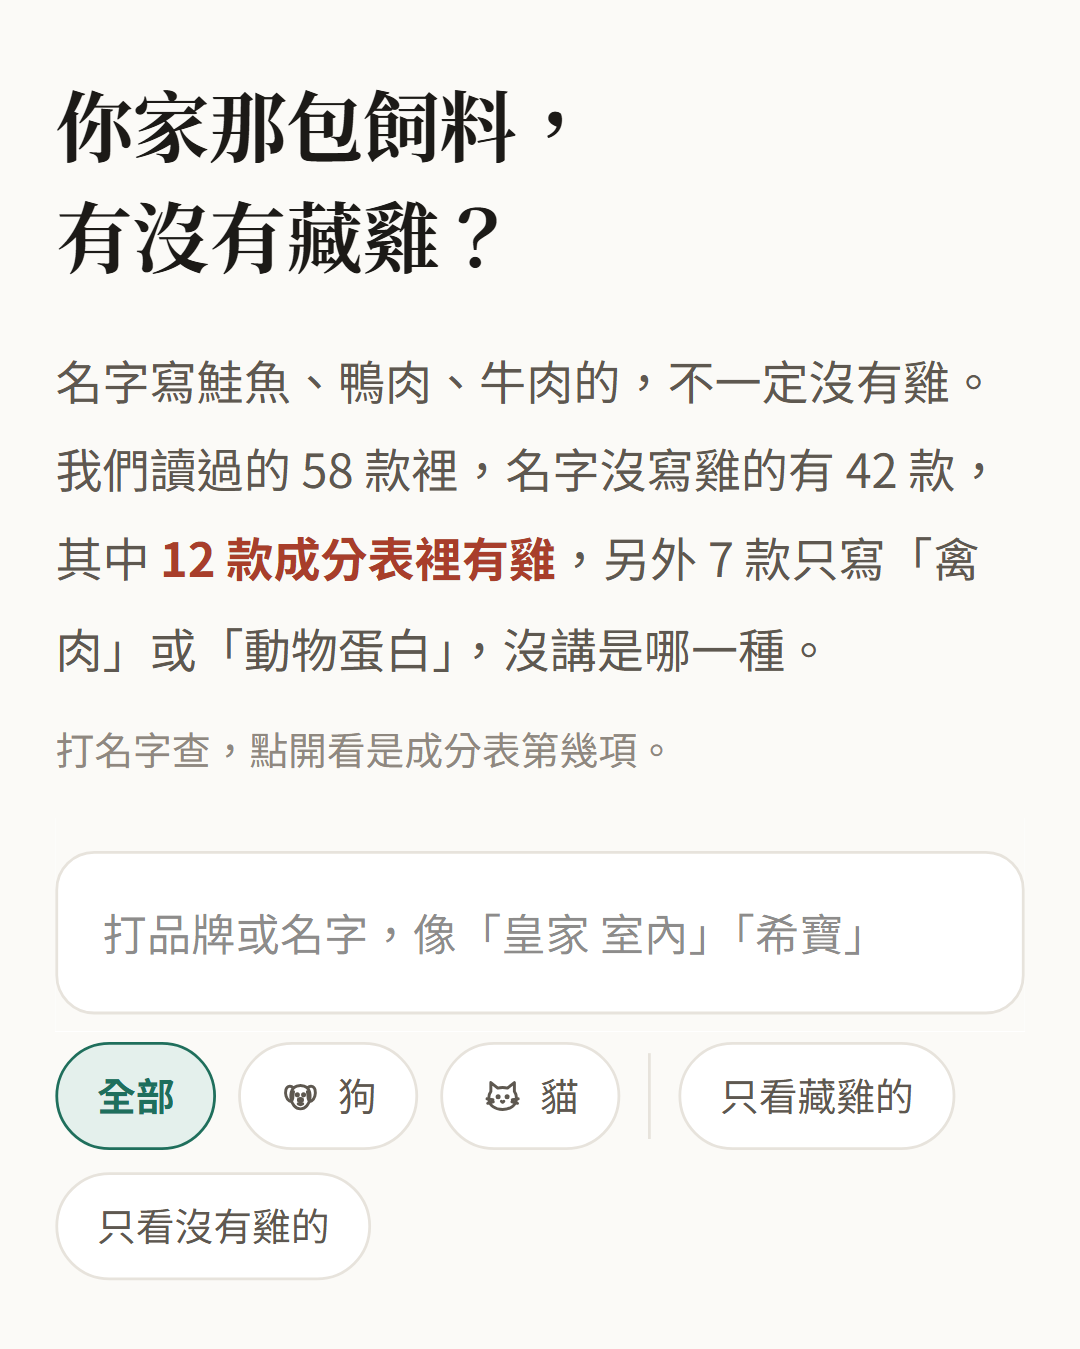
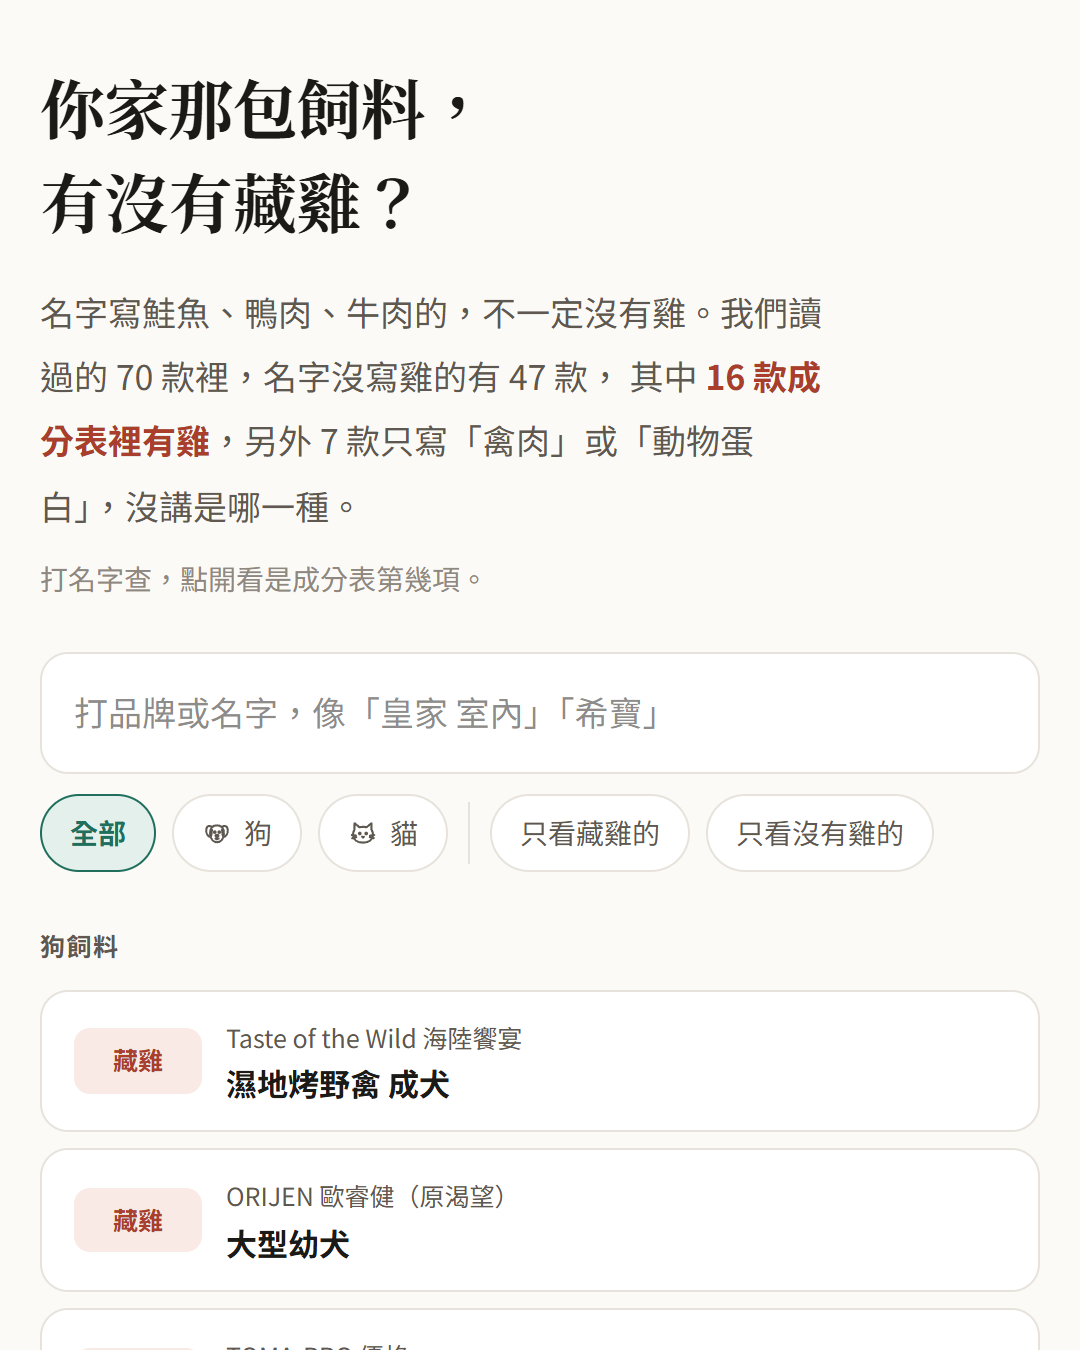
開 IG／Threads 帳號：名稱定案、開帳號步驟、第 1 篇換新數字、加狗罐頭篇
名稱（Tim 問官方還是個人）：外殼用品牌，說話像一個人
  @名稱 zone27.com.tw，不收就 zone27tw
  不用 zone27.tw：查過這個網址不存在、不是我們的，讀者照著打會打不開
  顯示名稱「貓狗飼料翻背面的人」，不捏造人設（有分潤還裝素人是公平會最危險的組合）

手冊第 1 節加開帳號十個步驟、新帳號頭兩天不要做的事
第 8 節排好開頭四篇：9/24 藏雞總覽 → 9/29 狗罐頭 → 10/1、10/6 貓砂
第 9 節：Analytics 9/13 就開了，舊的「還沒裝流量統計」改掉

第 1 篇：58/42/12 → 70/47/16，兩張圖重畫（第 2 張截線上最新的查藏雞頁）
  留言範本的編號重對：紐頓 T24 ck-05 → cf-16、莫比 ck-07 → cf-19，舊的已經不存在
第 2 篇（檔名 04）：名字寫鹿肉、鱉肉的狗罐頭，文稿＋兩張圖

diff --git a/marketing/threads/img/post-04-1.html b/marketing/threads/img/post-04-1.html
@@ -1,0 +1,53 @@
+<!doctype html>
+<html lang="zh-Hant"><head><meta charset="utf-8">
+<style>
+  * { box-sizing: border-box; }
+  body { margin: 0; width: 1080px; height: 1350px; background: #FBFAF7; color: #1C1A17;
+         font-family: "Microsoft JhengHei", "Noto Sans TC", "PingFang TC", sans-serif; }
+  .wrap { padding: 76px 84px 0; }
+  .kick { font-size: 34px; font-weight: 700; color: #6B655C; letter-spacing: 1px; }
+  h1 { font-size: 78px; line-height: 1.22; margin: 14px 0 0; font-weight: 900; }
+  h1 b { color: #A4432F; }
+  .stat { margin-top: 22px; font-size: 36px; line-height: 1.55; color: #3B3833; }
+  .stat b { color: #A4432F; }
+  .list { margin-top: 30px; border-top: 4px solid #1C1A17; }
+  .item { padding: 18px 0 16px; border-bottom: 2px solid #E4E0D8; }
+  .brand { font-size: 27px; color: #6B655C; font-weight: 700; }
+  .name { font-size: 38px; font-weight: 900; margin-top: 2px; }
+  .row { font-size: 31px; margin-top: 8px; line-height: 1.5; color: #3B3833; }
+  .row .k { display: inline-block; width: 150px; color: #8A8378; font-weight: 700; }
+  .row .chk { color: #A4432F; font-weight: 900; }
+  .row .ok { color: #2F6B55; font-weight: 900; }
+  .foot { position: absolute; left: 84px; right: 84px; bottom: 60px; display: flex; justify-content: space-between;
+          font-size: 26px; color: #8A8378; }
+</style></head>
+<body>
+  <div class="wrap">
+    <div class="kick">要幫狗換肉、做排除飲食的先看</div>
+    <h1>名字寫鹿肉、鱉肉<br>第一二項是<b>雞</b></h1>
+    <div class="stat">台灣買得到的 12 款狗主食罐，<br>名字沒寫雞的 5 款裡，<b>4 款有雞</b></div>
+    <div class="list">
+      <div class="item">
+        <div class="brand">汪喵星球</div>
+        <div class="name">犬用 Fantastic 95% 鮮肉主食罐　鹿肉</div>
+        <div class="row"><span class="k">成分表</span>第 1 項鹿肉，第 2 到 5 項全是 <span class="chk">雞</span></div>
+      </div>
+      <div class="item">
+        <div class="brand">怪獸部落</div>
+        <div class="name">犬2肉主食罐　鱉肉鱉蛋</div>
+        <div class="row"><span class="k">成分表</span>第 1 項就是 <span class="chk">雞肉</span></div>
+      </div>
+      <div class="item">
+        <div class="brand">汪喵星球</div>
+        <div class="name">熟齡犬銀養主食罐　燉羊肉</div>
+        <div class="row"><span class="k">成分表</span>第 1 項 <span class="chk">雞肉及雞肝</span>，羊肉排第 2</div>
+      </div>
+      <div class="item">
+        <div class="brand">怪獸部落</div>
+        <div class="name">犬1肉主食罐　鴨肉</div>
+        <div class="row"><span class="k">成分表</span>肉只有鴨肉、鴨肝，<span class="ok">找不到雞</span></div>
+      </div>
+    </div>
+  </div>
+  <div class="foot"><span>照台灣通路的中文標示，2026 年 9 月</span><span>zone27.com.tw</span></div>
+</body></html>

diff --git a/marketing/threads/img/post-01-1.html b/marketing/threads/img/post-01-1.html
@@ -24,7 +24,7 @@
   <div class="wrap">
     <div class="kick">對雞過敏的毛孩先看</div>
     <h1>名字沒寫雞<br>成分表裡<b>有雞</b></h1>
-    <div class="stat">台灣買得到的 58 款飼料、罐頭，<br>名字沒寫雞的 42 款裡，<b>12 款有雞</b></div>
+    <div class="stat">台灣買得到的 70 款飼料、罐頭，<br>名字沒寫雞的 47 款裡，<b>16 款有雞</b></div>
     <div class="list">
       <div class="item">
         <div class="brand">Sheba 希寶</div>

diff --git a/marketing/THREADS-PLAYBOOK.md b/marketing/THREADS-PLAYBOOK.md
@@ -12,22 +12,71 @@
   2. 跟 Tim 本人、恆美分開，被酸也不會燒到個人
   3. 個人帳號從沒發過文，本來就沒有累積可以沿用
 - **就開一個帳號**（2026-09-18 Tim：「我只想開一個 IG 跟 Threads 帳號，不要開那麼多個，手機綁定我哪生得出來」）
-  - 帳號名稱 `zone27.tw`，這是總帳號，網站做到哪個類目就發哪個類目
+  - 帳號名稱見下面「名稱」，這是總帳號，網站做到哪個類目就發哪個類目
   - 原本寫「照讀者分開開」是我想太多：多開帳號要多支手機門號，而且每個帳號都要從零養，以他一個人的時間根本顧不完。一個帳號養到有人看，比三個空帳號值錢
   - 換帳號要付的代價：追蹤的人是為了貓來的，突然看到除濕機會滑掉，互動會掉。**解法是每一篇都長得像同一個東西**：固定的「名字不算數，X 才算數」格式 —— 飼料看成分表，保養品看全成分，家電看規格表。讀者追的是「這個帳號會幫我拆穿標示」，不是追貓
   - 類目差很遠的時候（例如嬰幼兒、3C），在貼文第一行就講清楚是給誰看的，讓不相關的人知道可以滑過去，不要硬留
-- 開法：每個 Threads 帳號要用一個 Instagram 帳號開。先開新的 Instagram，再用它登入 Threads
-- 帳號名稱：`zone27.tw`（被用走就 `zone27.tw.official` 或 `zone27tw`）
-- 顯示名稱：`ZONE 27｜標示拆給你看`
-- 自介：
+- 開法：每個 Threads 帳號要用一個 Instagram 帳號開。先開新的 Instagram，再用它登入 Threads。步驟見下面
+
+### 名稱：外殼用品牌，說話像一個人（2026-09-23 定）
+
+Tim 問要取官方的還是個人一點的。結論是兩個都不要，取中間：
+
+- **帳號名稱（@ 後面那串）用品牌**：第一選擇 `zone27.com.tw`，IG 不收的話用 `zone27tw`
+  1. @ 名稱只能用英文數字，本來就講不出中文意思，最有用的就是跟網址一模一樣
+  2. Threads 每一篇貼文最上面都掛著 @ 名稱。主文不放連結，但每一篇都等於把網址秀一次
+  3. **不要用 `zone27.tw`**：2026-09-23 查過，這個網址不存在、不是我們的。讀者照著打會打不開，以後也可能被別人註冊走
+  4. 不要加 `.official`：官方味就是這個平台最容易被滑掉的味道
+- **顯示名稱（中文那行）像一個人**：`貓狗飼料翻背面的人`
+  1. ZONE 27 還沒有人認識，拿品牌名當顯示名稱，只有廣告的缺點，沒有品牌的好處
+  2. 「翻背面」是每個飼主都做過的動作，一看就知道這個帳號在做什麼；「貓狗飼料」是 IG 搜尋會比對到的字
+  3. 名稱改了有次數限制（14 天內 2 次），@ 名稱改掉後舊的會鎖 14 天。一次取對
+- **不要捏造人設**（養三隻貓的某某媽媽、獸醫、營養師）
+  1. 有分潤還裝素人，是公平會薦證廣告最危險的組合
+  2. 有人問「你家貓吃什麼」會答不出來
+  3. 帳號要能賣、要能交給別人顧；綁一個假的人，就賣不掉也交不出去
+  4. 「翻成分表的人」這個角色是真的，網站每天在做這件事，誰來顧都演得下去，也不用露臉
+- 語氣：講研究用「我們」（跟網站一致，「我們讀了 12 款」），回留言可以用「我」（「我幫你看」）
+- 自介（IG 跟 Threads 共用，150 字內）：
   ```
   名字不算數，成分表才算數
-  現在在讀：貓狗飼料、貓罐頭
-  名字寫鮭魚，裡面有沒有雞？查給你看
+  貓狗飼料、罐頭、貓砂，一款一款翻到背面讀
+  名字寫鮭魚，裡面有沒有雞？查給你看 👇
   ```
-- 連結：`zone27.com.tw/check`
-- 大頭貼：`marketing/threads/img/avatar.png`
-- **暖身**：第一篇之前的兩三天，去有人在問「過敏吃什麼」「換飼料」的貼文底下，留真的有用的回答（不貼連結）。讓 Threads 知道這個帳號在講什麼
+- 連結：IG 放 `zone27.com.tw/check`。Threads 最多可以放 5 個，第一個一樣放 /check，第二個放首頁
+- 大頭貼：`marketing/threads/img/avatar.png`（綠底 ZONE 27，跟網站同一個顏色）
+
+### 開帳號（2026-09-23 寫給 Tim）
+
+先準備：
+- 現在那支手機就好
+- **專用 Gmail**（建議）：網站公開的聯絡信箱拿來當登入帳號，等於登入帳號是公開的，被釣魚、被亂寄重設密碼信的機會大；以後帳號要轉手，也要先把信箱換掉
+- 驗證器 App（Google Authenticator）
+- 大頭貼、第 1 篇的三張圖，先用 LINE 傳給自己
+- 上面的名稱、自介、連結，開一個記事本複製好
+
+步驟：
+1. IG：點最上面自己的帳號名稱 → 新增帳號 → 建立新帳號
+2. @ 名稱打 `zone27.com.tw`，不收就 `zone27tw`
+3. 用電子郵件註冊，填專用 Gmail。生日填真的，被誤停權申訴時要對得上
+4. 如果問要不要連 Facebook、加進同一個帳號管理中心、同步通訊錄：**全部選不要**。連了會被推薦給你私人跟恆美那邊認識的人
+5. 填顯示名稱、自介、連結，換大頭貼
+6. 轉成專業帳號 → 創作者。每一篇的數據才看得到，帳號會變公開（本來就要公開）
+7. 開雙重驗證，選驗證器 App，備用碼抄在紙上收好
+8. 下載 Threads。登入時**確認選的是新開的那個 IG**，不是你私人的。選錯就會用私人帳號開出一個 Threads，這一步最容易出事
+9. 匯入 IG 的個人檔案 → 設公開 → 加連結；看得到「主題標籤」的欄位就加：貓、狗、毛孩、寵物、飼料
+10. 私人帳號、恆美的帳號不要去追它、不要按讚分享，兩邊分開
+
+IG 跟 Threads 的角色：**Threads 是主場**。IG 是開 Threads 的鑰匙，一週一次把同一組圖發成輪播就好，不要經營成第二個戰場，一個人顧不來。
+
+### 新帳號頭兩天不要做的事
+
+- 一口氣追幾十個人、一小時留十幾則留言、每則都貼連結、複製貼上同一句話。新帳號這樣最容易被當成機器人
+- 買粉、進互粉群、用自動發文或自動留言的工具
+- 在留言裡回答生病、症狀怎麼辦。請他問獸醫，我們只講成分表
+- Meta 2025 到 2026 有好幾波 AI 誤停權，沒做錯事也會中。雙重驗證、真的生日、專用信箱，就是被誤停時拿回帳號的憑證
+
+**暖身**：開好之後、第一篇之前，去有人在問「過敏吃什麼」「換飼料」的貼文底下，留幾則真的有用的回答（不貼連結），一天五則以內。讓 Threads 知道這個帳號在講什麼
 
 ## 2. 什麼時候發
 
@@ -110,9 +159,19 @@
 
 資料都在網站上，寫之前先去看最新的數字：
 
-1. 藏雞總覽：名字沒寫雞的 42 款，12 款有雞（第 1 篇，2026-09-13 加讀了皇家、希寶、優格這些常見的 16 款）
-1-2. 貓砂沖馬桶：14 款只有 7 款適量可沖，而那 7 款包裝全寫可沖（第 2 篇，稿在 threads/2026-09-post-02.md）
-1-3. 貓砂一個月多少錢：最貴的礦砂比最便宜的多 $477，一年五千多（第 3 篇，稿在 threads/2026-09-post-03.md）
+**開頭四篇的順序（2026-09-23 排）：** 第 1 篇吸進來的是在意過敏的人，第 2 篇接著講藏雞最順，貓砂排到後面。
+
+| 順序 | 時間 | 題目 | 稿 |
+|---|---|---|---|
+| 1 | 9/24（四）晚上 8 點 | 藏雞總覽：70 款，名字沒寫雞的 47 款，16 款有雞 | threads/2026-09-post-01.md |
+| 2 | 9/29（二）晚上 8 點 | 藏雞系列 #2 狗罐頭：名字寫鹿肉、鱉肉的，第一二項是雞 | threads/2026-09-post-04.md |
+| 3 | 10/1（四）晚上 8 點 | 貓砂沖馬桶：14 款只有 7 款適量可沖 | threads/2026-09-post-02.md |
+| 4 | 10/6（二）晚上 8 點 | 貓砂一個月多少錢 | threads/2026-09-post-03.md |
+
+中間的空檔不用發文，去回自己貼文的留言、去別人的貼文底下回答問題。
+
+之後的題目：
+
 2. 藏雞系列：貓罐頭篇（很多是雞湯煮的）
 3. 大包不一定划算：巔峰羊肉 185g 十二件組，一罐比單買還貴
 4. 副食罐可以當主食嗎：鈣差幾十倍
@@ -126,7 +185,7 @@
 
 - 蝦皮分潤報表：看每個 Sub id（CW02、CF09…）的點擊和訂單
 - Threads 洞察報告：看瀏覽、回覆、分享
-- 網站還沒有裝流量統計。之後 Tim 在 Vercel 後台打開 Analytics，就能看到有多少人從 Threads 進來
+- 網站流量：Vercel 後台的 Analytics（2026-09-13 已打開），看有多少人從 Threads 進來、進了哪一頁
 
 ---
 

diff --git a/marketing/threads/2026-09-post-04.md b/marketing/threads/2026-09-post-04.md
@@ -1,0 +1,80 @@
+# Threads 藏雞系列 #2：名字寫鹿肉、鱉肉的狗罐頭，第一二項是雞
+
+- 帳號：只開一個，名稱照 THREADS-PLAYBOOK.md 第 1 節
+- 發文時間：9/29（二）晚上 8 點，排第 2 篇（檔名是 04，因為寫得比貓砂那兩篇晚）
+- 主題標籤：養狗
+- 圖片：img/post-04-1.png（四款對照）、img/post-04-2.png（網站那一頁）
+- 數字：2026-09-23 對過（12 款、名字沒寫雞 5 款、4 款有雞、只有 1 款整張沒有雞）。成分表照台灣通路商品頁的中文標示，網站那一頁每一筆都有查核日期
+- 這一篇接第 1 篇：第 1 篇進來的是在意過敏的人，這一篇講的是最常被拿來「換肉」的那種罐頭
+
+---
+
+## 主文（直接複製）
+
+獸醫叫你換「狗沒吃過的肉」的，先停一下
+
+鹿肉、鱉肉這種口味
+常被拿來做排除飲食
+
+我們把台灣買得到的 12 款狗主食罐讀完
+名字沒寫雞的有 5 款
+其中 4 款，成分表裡有雞
+
+汪喵星球 鹿肉主食罐：第 1 項鹿肉，第 2 到 5 項全是雞
+怪獸部落 鱉肉鱉蛋主食罐：第 1 項就是雞肉
+汪喵星球 熟齡犬 燉羊肉：第 1 項雞肉及雞肝
+
+整張成分表真的找不到雞的
+12 款裡只有 1 款
+
+罐頭本身沒問題
+只是排除飲食換到這幾罐
+兩個月後狗還在抓，你會以為不是食物的問題 🥲
+
+你家狗狗現在吃哪一罐？
+丟名字，我幫你看
+
+---
+
+## 第一則回覆（自己留，放連結）
+
+12 款逐項對過，每一罐的雞排在成分表第幾項都列出來了
+沒有雞的那 1 款也在裡面
+👉 zone27.com.tw/dog-wet-food/hidden-chicken
+
+（網站裡的購買連結是蝦皮分潤，價格跟你自己去買一樣）
+
+---
+
+## 留言怎麼回（範本，照情況改）
+
+問「那 1 款是哪一款」的：
+「怪獸部落 犬1肉主食罐 鴨肉，肉只有鴨肉跟鴨肝兩項 👉 zone27.com.tw/check#dw-01」
+
+問某一罐有沒有雞、我們讀過的：
+「XX 有雞喔，成分表第 N 項是 OO 👉 zone27.com.tw/check#編號」
+（在查藏雞頁點開那一款、按「傳給朋友」就會複製到正確的連結）
+
+問乾糧的：
+「乾糧也讀了，打名字就查得到 👉 zone27.com.tw/check」
+
+說「我家吃了很好啊」的：
+「那很好 👍 含雞本身不是壞事，只有要避開雞的時候才需要注意」
+（不要爭。這一篇講的是名字跟內容對不上，不是這幾罐不好）
+
+問生病、拉肚子、皮膚要吃什麼的：
+「這個要問獸醫，我們只看成分表，不敢亂講」
+
+我們還沒讀過的：
+「這罐還沒讀到，我去讀，讀完回你」
+（把名字傳給 Claude，讀完補進網站再回）
+
+---
+
+## 為什麼這幾句這樣寫
+
+- 第一行點名「獸醫叫你換肉的」：這群人最在意，也最會留言
+- 「常被拿來做排除飲食」：鹿、鱉這種狗很少吃到的肉，本來就是排除飲食常用的，這句是一般知識，不是我們編的比例
+- 不寫「很多人買鹿肉罐是為了避開雞」：沒有數字可以撐，網站上也拿掉了
+- 三個例子兩個是汪喵。汪喵的賣場是 Tim 產得出連結的那幾家，照樣寫，因為成分表就是這樣寫的
+- 「兩個月後狗還在抓」：排除飲食一般要做八週左右，這是真的會發生的情境，不是捏造的經驗

diff --git a/marketing/threads/2026-09-post-01.md b/marketing/threads/2026-09-post-01.md
@@ -1,7 +1,8 @@
 # Threads 第 1 篇：名字沒寫雞，成分表裡有雞
 
-- 帳號：zone27.tw（一個帳號打全站，2026-09-18 改）
-- 發文時間：帳號開好那天的晚上 8 點就發，不要等。下一個最好的時段是星期四（9/24）晚上 8 點
+- 帳號：只開一個，名稱照 THREADS-PLAYBOOK.md 第 1 節（2026-09-23 改）
+- 發文時間：星期四（9/24）晚上 8 點。帳號當天開好的話，白天先去別人的貼文底下留幾則真的有用的回答（不貼連結），晚上再發
+- 數字：2026-09-23 對過查藏雞頁（70 款、名字沒寫雞 47 款、16 款有雞）。隔太久才發的話，發之前再對一次
 - 主題標籤：毛孩
 - 圖片：img/post-01-1.png、img/post-01-2.png、img/post-01-3.png（照順序）
 - 發完 15 分鐘內留第一則回覆（連結），接下來 2 小時守在旁邊回每一則留言
@@ -14,10 +15,10 @@
 
 名字寫「鴨肉」「鮭魚」的飼料，不代表裡面沒有雞
 
-我們把台灣買得到的 58 款狗飼料、貓飼料、貓罐頭
+我們把台灣買得到的 70 款狗飼料、貓飼料、貓狗罐頭
 成分表一款一款讀完
-名字沒寫雞的有 42 款
-其中 12 款，成分表裡有雞
+名字沒寫雞的有 47 款
+其中 16 款，成分表裡有雞
 
 隨便舉 3 個
 希寶鮮饌包「鮪魚＋鮭魚」：扣掉水，第一個肉就是雞
@@ -62,10 +63,11 @@
 
 編號在查藏雞頁點開那一款、按「傳給朋友」就會複製到正確的連結。
 
-常被問的幾款，編號先查好（2026-09-13）：
+常被問的幾款，編號先查好（2026-09-23 重對過）：
 - 皇家 室內成貓 IN27 → ck-01、幼貓 K36 → ck-02、絕育成貓 S37 → ck-03、柴犬 S26 → ck-04
-- 紐頓 T24 → ck-05（沒有雞）、T22 → cf-09（有雞）
-- 法米納 N&D 鴨肉 → ck-06、莫比 鱒魚 → ck-07
+- 紐頓 T24 → cf-16（沒有雞，有購買連結）、T22 → cf-09（有雞）
+- 法米納 N&D 鴨肉 → ck-06（肉沒有雞，油是雞油）、莫比 鱒魚 → cf-19（沒有雞，有購買連結）
+- 狗罐頭：汪喵鹿肉 → dw-08（藏雞）、怪獸部落鱉肉鱉蛋 → dw-03（藏雞）、怪獸部落鴨肉 → dw-01（沒有雞）
 - 耐吉斯 超級無穀：慢活貓 ck-08、化毛貓 ck-09、成犬羊肉 ck-10
 - 原點 鮭魚 ck-11（沒有雞）、鴨肉 ck-12（藏雞）、火雞低敏 ck-13（沒有雞）
 - 柏萊富 羊肉護膚 ck-14（沒有雞）、優格 羊肉＋米 ck-15（藏雞）、希寶 鮪魚＋鮭魚 ck-16（藏雞）

diff --git a/marketing/threads/2026-09-post-02.md b/marketing/threads/2026-09-post-02.md
@@ -1,7 +1,7 @@
 # Threads 第 2 篇：寫可沖馬桶的，有的沖了會塞
 
-- 帳號：zone27.tw
-- 發文時間：第一篇之後隔兩到三天，晚上 8 點
+- 帳號：只開一個，名稱照 THREADS-PLAYBOOK.md 第 1 節
+- 發文時間：10/1（四）晚上 8 點，排第 3 篇（2026-09-23 重排，見手冊第 8 節）
 - 主題標籤：養貓
 - 圖片：img/post-02-1.png（沖馬桶判定表）、img/post-02-2.png（同一頁兩款對照）
 - 這一篇的目標跟第一篇不同：第一篇是「你家那包有沒有雞」，這篇是「你家那包沖不沖得下去」。同一個格式，換一個類目

diff --git a/marketing/threads/2026-09-post-03.md b/marketing/threads/2026-09-post-03.md
@@ -1,7 +1,7 @@
 # Threads 第 3 篇：礦砂比較便宜？算一個月就知道
 
-- 帳號：zone27.tw
-- 發文時間：第二篇之後隔兩到三天，晚上 8 點
+- 帳號：只開一個，名稱照 THREADS-PLAYBOOK.md 第 1 節
+- 發文時間：10/6（二）晚上 8 點，排第 4 篇（2026-09-23 重排，見手冊第 8 節）
 - 主題標籤：養貓
 - 圖片：img/post-03-1.png（月花費對照）
 - 這篇打的是「以為自己在省錢」的人。前兩篇講成分和材質，這篇講錢
